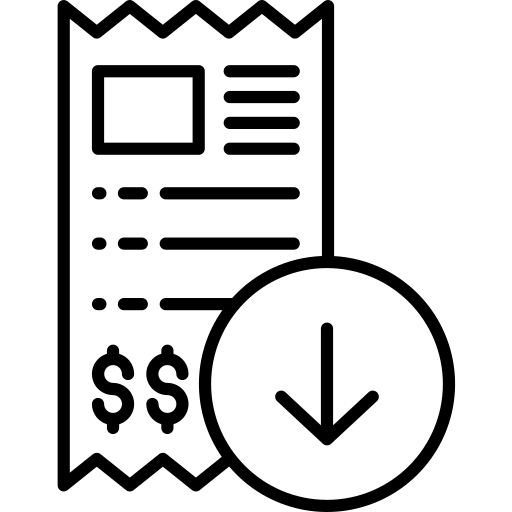
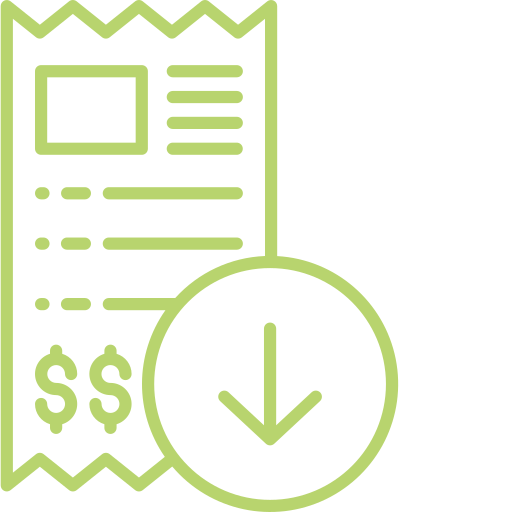
nuevo apartado: pagar cooperadora

diff --git a/pagarCooperadora.css b/pagarCooperadora.css
@@ -1,0 +1,215 @@
+@font-face {
+    font-family: 'Tamrin';
+    src: url('fuentes/tamrin.ttf') format('truetype');
+}
+
+body {
+    margin: 0;
+    min-height: 100vh;
+    display: flex;
+    flex-direction: column;
+    background-image: url('fondo/fondoISFDyT31.jpeg');
+    background-size: cover;
+    background-position: center;
+    background-repeat: no-repeat;
+}
+
+.fuente {
+    font-family: 'Tamrin', sans-serif;
+    color: white;
+}
+
+.seccionPagos {
+    display: flex;
+    flex-direction: row;
+    justify-content: center;
+    align-items: flex-start;
+    gap: 30px; /* Separación entre contenedores */
+    width: 100%;
+}
+
+.contenedor {
+    width: 600px;
+    height: auto;
+    background: #0049ac; 
+    border-radius: 20px;
+    box-sizing: border-box;
+    padding: 25px 30px;
+    box-shadow: 0 4px 15px rgba(0, 0, 0, 0.15);
+    display: flex;
+    flex-direction: column;
+    margin-top: 5%;
+    align-self: center;
+    display: none;
+}
+
+/* Muestra únicamente los contenedores que tienen la clase .activo */
+.contenedor.activo {
+    display: flex;
+}
+
+.titulo {
+    width: 100%;
+    font-size: 24px;
+    margin: 0 0 15px 0;
+    text-align: center;
+    color: white;
+}
+
+.info {
+    display: flex;
+    justify-content: space-between;
+    align-items: flex-start;
+    margin-bottom: 15px;
+}
+
+.datos {
+    display: flex;
+    flex-direction: column;
+    gap: 4px;
+}
+
+.datos p {
+    margin: 0;
+    font-size: 16px;
+    color: white;
+}
+
+#alias, #cvu {
+    cursor: pointer;
+    color: #8ce4ff; 
+    text-decoration: underline;
+}
+
+.estado p {
+    margin: 0;
+    background-color: #ff3131; 
+    color: white;
+    padding: 4px 14px;
+    border-radius: 12px;
+    font-size: 15px;
+    font-weight: bold;
+}
+
+.linea {
+    width: 100%;
+    border-top: 1.5px solid #b8d46e; 
+    margin: 12px 0;
+}
+
+.descargar, .enviar {
+    display: flex;
+    flex-direction: column;
+    gap: 10px;
+}
+
+.descargar button, .enviar button:not(.btn) {
+    background: transparent;
+    border: none;
+    color: white;
+    font-size: 17px;
+    display: flex;
+    align-items: center;
+    justify-content: space-between;
+    width: 100%;
+    cursor: pointer;
+    padding: 5px 0;
+    text-align: left;
+}
+
+.descargar button img, .enviar button:not(.btn) img {
+    width: 24px;
+    height: 24px;
+    margin-right: 12px;
+}
+
+.descargar button::after, .enviar button:not(.btn)::after {
+    content: ">";
+    font-size: 18px;
+    color: white;
+    font-weight: bold;
+    margin-left: auto;
+}
+
+.enviar .btn {
+    background-color: #b8d46e; 
+    color: #000;
+    border: none;
+    padding: 8px 24px;
+    border-radius: 12px;
+    font-size: 16px;
+    font-weight: bold;
+    cursor: pointer;
+    align-self: center;
+    margin-top: 10px;
+    transition: background-color 0.2s ease;
+}
+
+.enviar .btn:hover {
+    background-color: #b8d46e;
+}
+
+.cargar {
+    width: 100%;
+    display: flex;
+    justify-content: center;
+    margin: 15px 0;
+}
+
+.cargarImagen {
+    background-color: #b8d46e; 
+    width: 250px;
+    height: 150px;
+    border-radius: 20px;
+    display: flex;
+    flex-direction: column;
+    align-items: center;
+    justify-content: center;
+    cursor: pointer;
+    gap: 10px;
+    transition: background-color 0.2s ease, transform 0.1s ease;
+}
+
+.cargarImagen:hover {
+    background-color: #b8d46e;
+    transform: scale(1.02);
+}
+
+.cargarImagen img {
+    width: 48px;
+    height: 48px;
+    object-fit: contain;
+}
+
+.texto {
+    color: #000000;
+    font-size: 13px;
+    font-weight: bold;
+    text-align: center;
+}
+
+.cargarImagen input[type="file"] {
+    display: none;
+}
+
+.btnEnviar {
+    background-color: #b8d46e; 
+    color: #000000;
+    border: none;
+    padding: 6px 30px;
+    border-radius: 10px;
+    font-size: 17px;
+    font-weight: bold;
+    cursor: pointer;
+    align-self: center;
+    transition: background-color 0.2s ease, transform 0.1s ease;
+    margin-top: 10%;
+}
+
+.btnEnviar:hover {
+    background-color: #b8d46e;
+}
+
+.btnEnviar:active {
+    transform: scale(0.97);
+}

diff --git a/script.js b/script.js
@@ -46,3 +46,30 @@ function mostrarCarrera() {
    }
 
 }
+
+function copiarElemento(idElemento) {
+   const texto = document.getElementById(idElemento).innerText;
+   navigator.clipboard.writeText(texto)
+      .then(() => {
+         alert("Elemento copiado al portapapeles!");
+      })
+      .catch(err => console.error("Error: ", err));
+} 
+   
+function mostrar(...ids) { 
+   /* 
+      Los tres puntos son un caracteristico parametro de JS llamado Rest parameter. 
+      Sirven para indicarle a la función que puede recibir cualquier cantidad de 
+      argumentos y que debe guardarlos todos juntos dentro de una lista (array) llamado ids. 
+   */
+   document.querySelectorAll('.contenedor').forEach(contenedor => {
+      contenedor.classList.remove('activo');
+   });
+
+   ids.forEach(id => {
+      const elemento = document.getElementById(id);
+      if (elemento) {
+         elemento.classList.add('activo');
+      }
+   });
+}

diff --git a/pagarCooperadora.php b/pagarCooperadora.php
@@ -1,0 +1,99 @@
+<?php
+    include 'conexion.php';
+    //session_start();
+?>
+<!DOCTYPE html>
+<html lang="en">
+<head>
+    <meta charset="UTF-8">
+    <meta name="viewport" content="width=device-width, initial-scale=1.0">
+    <link rel="stylesheet" href="pagarCooperadora.css">
+    <title>Pasarela de pagos</title>
+</head>
+<body>
+    <?php
+        include 'nav.php';
+    ?>
+<div class="seccionPagos">
+    <!-- Contenedor pasarela -->
+    <div class="contenedor activo" id="pasarela">
+        <h1 class="fuente titulo">Mes</h1>
+
+        <div class="info">
+            <div class="datos">
+                <p class="fuente">Monto a pagar</p>
+                <p class="fuente">$$$$</p>
+                <p id="alias" onclick="copiarElemento('alias')" class="fuente">Cooperadora.31</p>
+                <p id="cvu" onclick="copiarElemento('cvu')" class="fuente">0140354901617701138618</p>
+            </div>
+            <div class="estado">
+                <p class="fuente">Estado</p>
+            </div>
+        </div>
+
+        <div class="linea"></div>
+        <div class="descargar">
+            <button>
+                <span class="fuente" style="display: flex; align-items: center;">
+                    <img src="iconos/descargar.png" alt="Descarga">
+                    Descargar factura
+                </span>
+            </button>
+        </div>
+
+        <div class="linea"></div>
+        <div class="enviar">
+            <button type="button" onclick="mostrar('enviarComprobante')">
+                <span class="fuente" style="display: flex; align-items: center;">
+                    <img src="iconos/enviar.png" alt="Enviar">
+                    Enviar comprobante de pago
+                </span>
+            </button>
+            <button type="button" class="fuente btn" onclick="mostrar('pasarela', 'cuotaPendiente')">Enviar pago</button>
+        </div>
+    </div> 
+
+    <!-- Contenedor enviar comprobante -->
+    <div class="contenedor" id="enviarComprobante">
+        <h1 class="fuente titulo">Enviar comprobante de pago</h1>
+        
+        <div class="cargar">
+            <label for="subir" class="cargarImagen">
+                <img src="iconos/cargar.png" alt="Cargar">
+                <span class="fuente texto">Subir foto del comprobante</span>
+                <input type="file" id="subir" accept="image/*">
+            </label>
+        </div>
+        <button type="button" class="fuente btnEnviar" onclick="mostrar('pasarela')">Enviar</button>
+    </div>
+
+    <!-- Contenedor cuota pendiente -->
+    <div class="contenedor" id="cuotaPendiente">
+        <h1 class="fuente titulo">Comprobante de pago</h1>
+
+        <div class="info">
+            <div class="estado">
+                <p class="fuente">Estado</p>
+            </div>
+            <div class="datos">
+                <p class="fuente">Te informaremos cuando el pago haya sido validado.</p>
+            </div>
+        </div>
+
+        <div class="linea"></div>
+        <div class="enviar">
+            <button type="button" onclick="mostrar('enviarComprobante')">
+                <span class="fuente" style="display: flex; align-items: center;">
+                    <img src="iconos/enviar.png" alt="Enviar">
+                    Enviar comprobante de pago
+                </span>
+            </button>
+        </div>
+    </div>
+</div>
+    <script src="script.js"></script>
+</body>
+</html>
+<?php
+    //$conexion->close();
+?>
